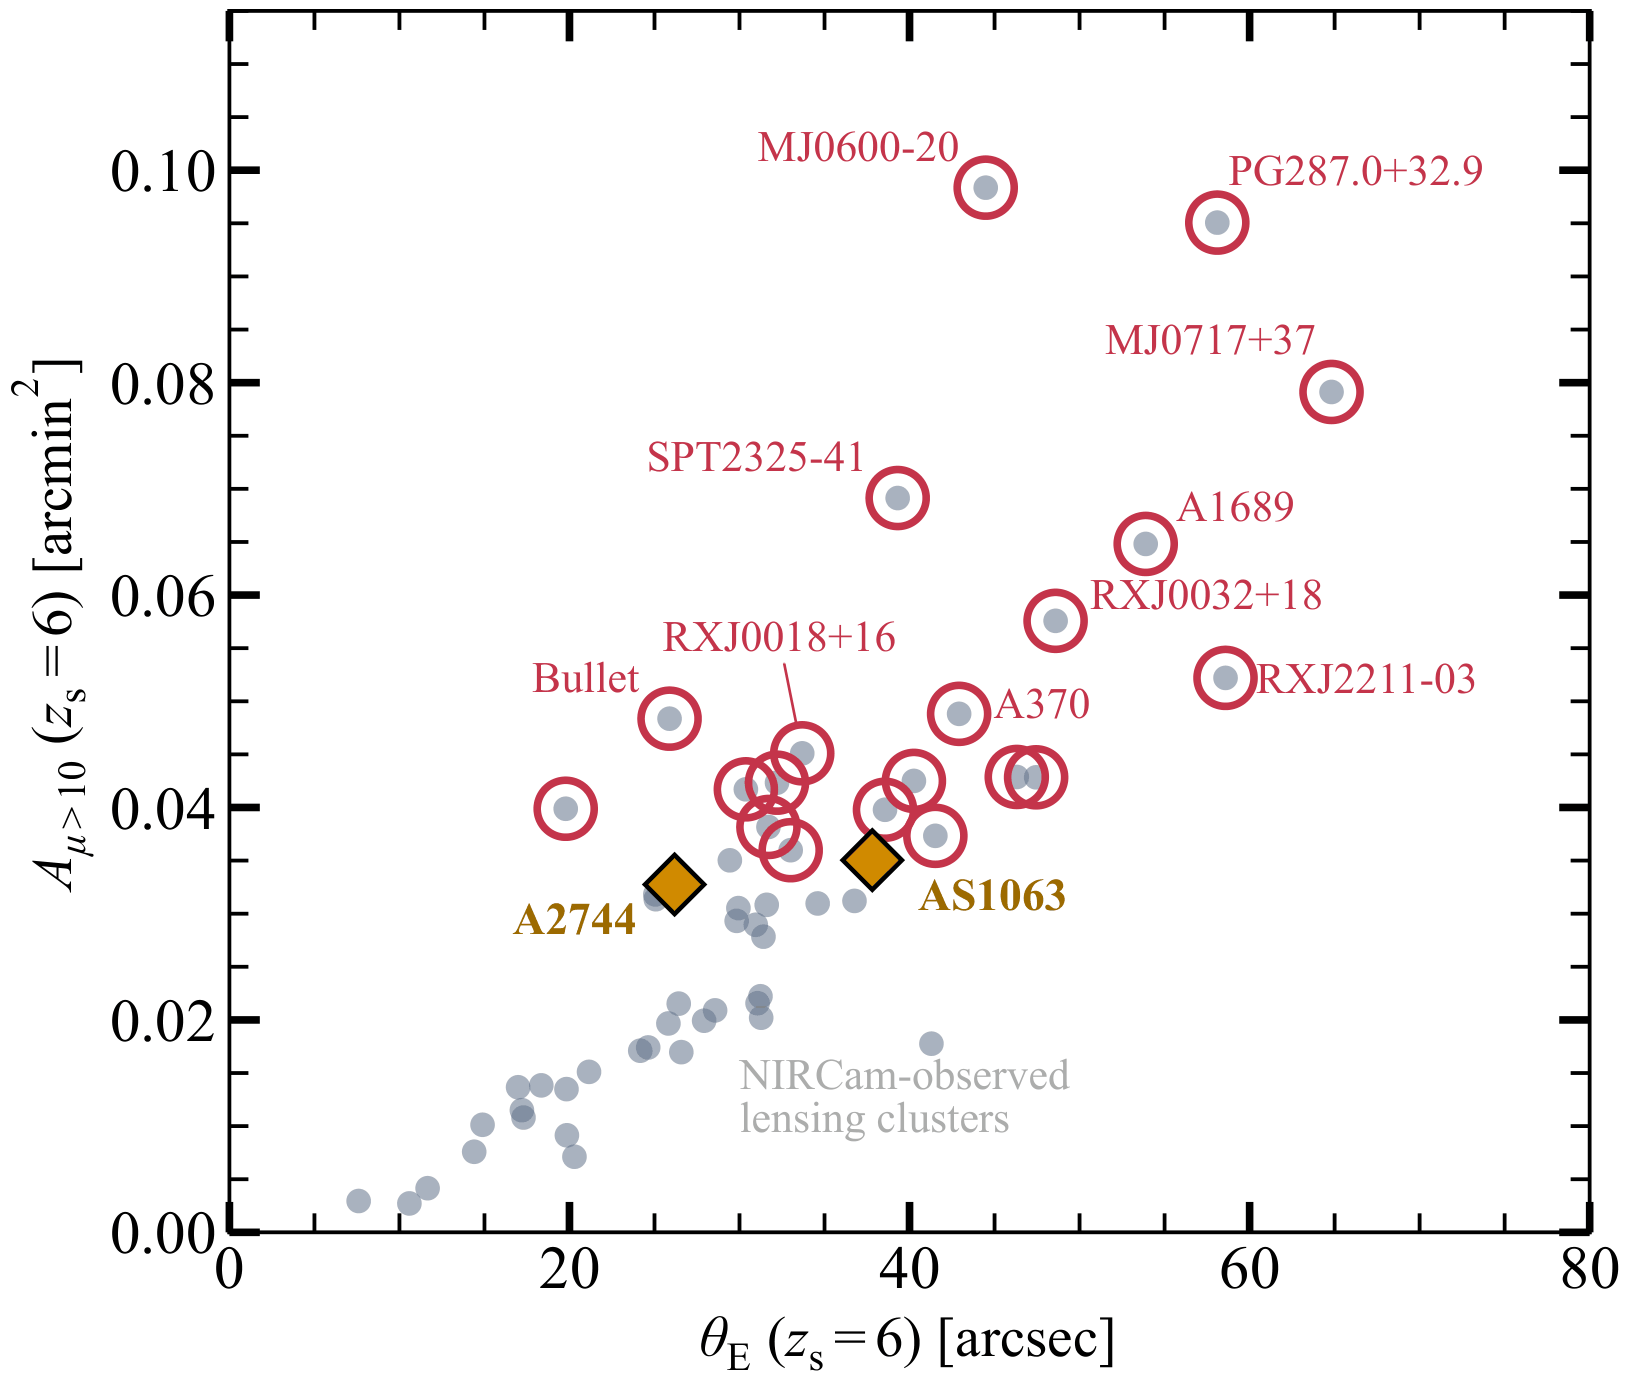
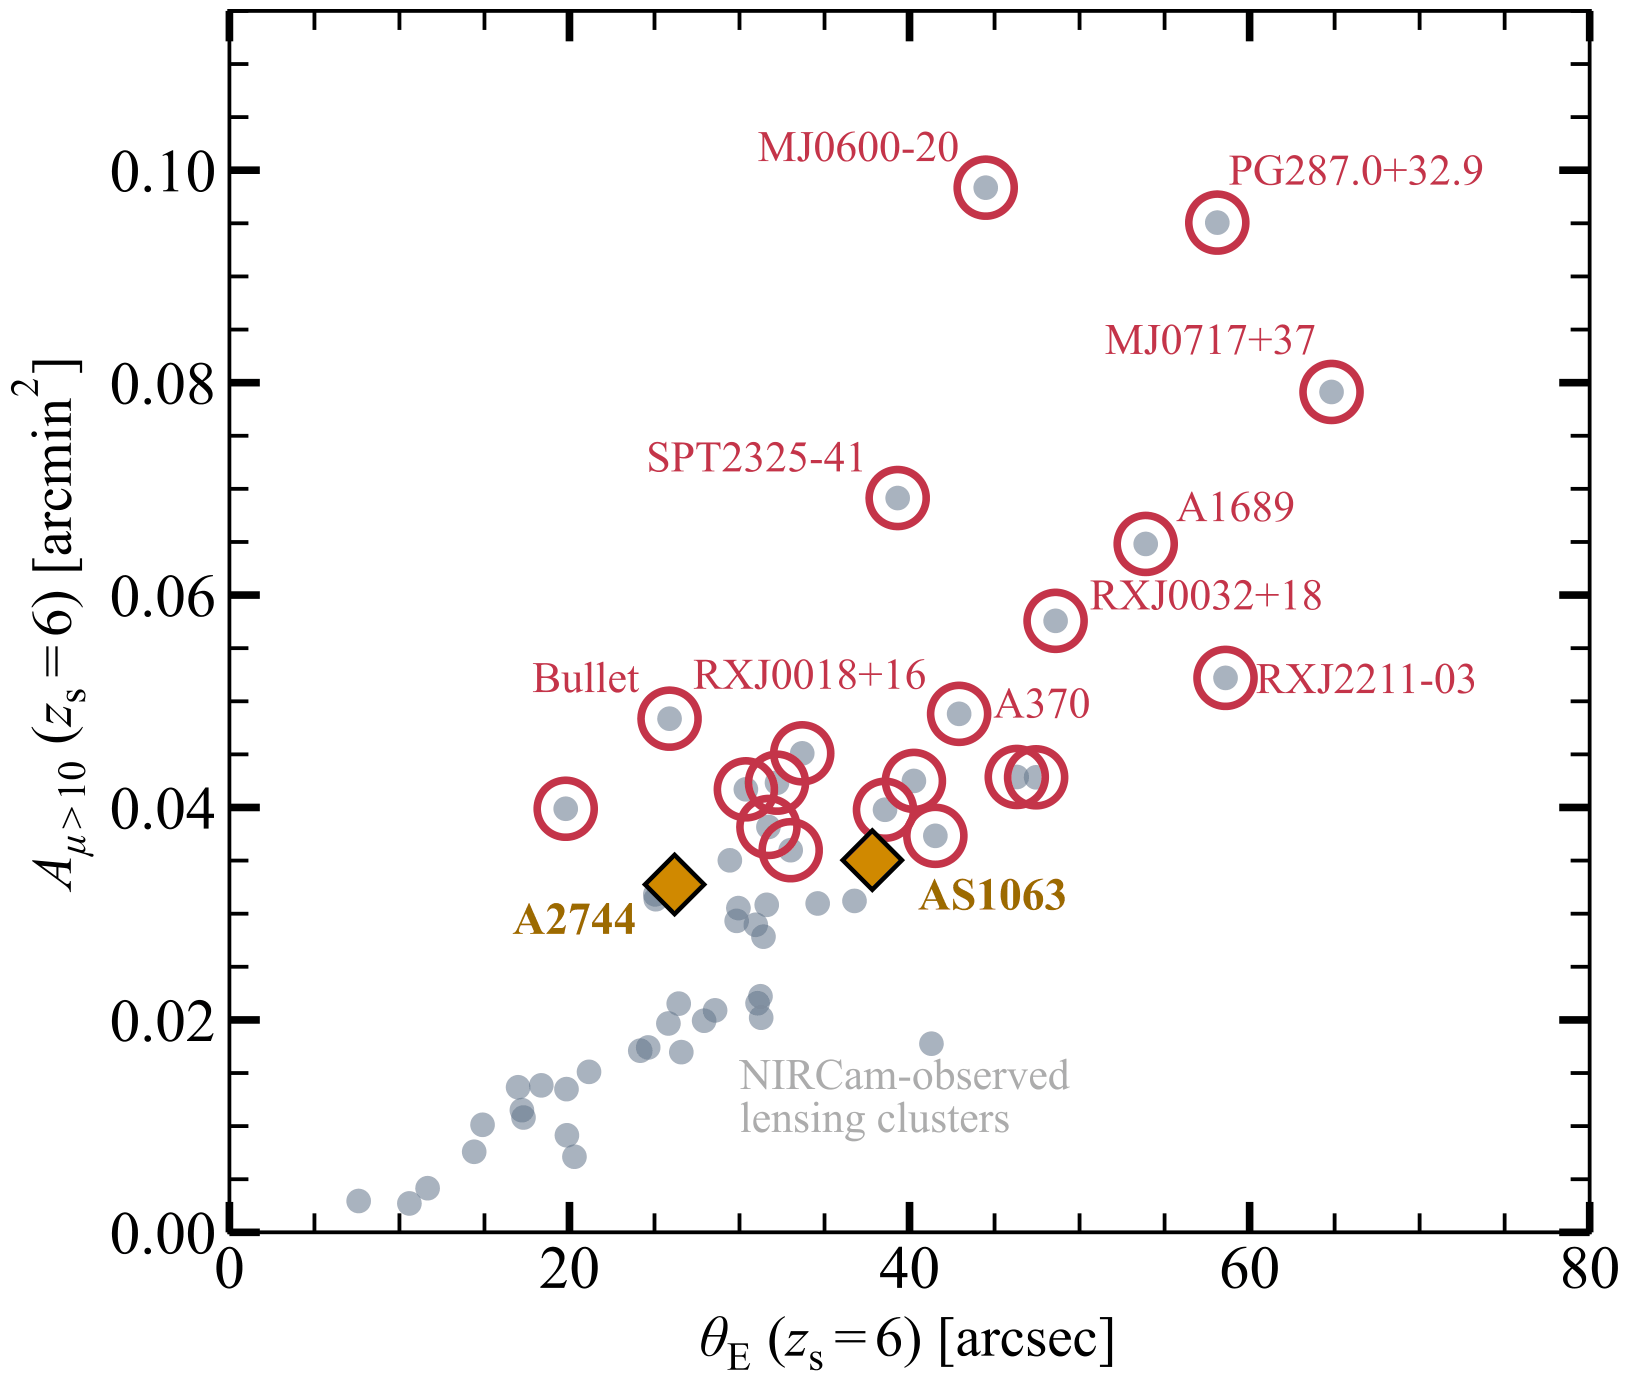
Richer transient imagery, wordmark header, legacy label fixes, and the updated cluster figure with lens-model references

diff --git a/index.html b/index.html
@@ -13,7 +13,7 @@
 
 <header class="site-head">
   <div class="wrap nav-bar">
-    <a class="brand" href="index.html" aria-label="JWST Frontier Fields home">JFF</a>
+    <a class="brand" href="index.html" aria-label="JWST Frontier Fields home">JWST Frontier Fields</a>
     <nav class="site-nav" aria-label="Site">
       <a href="index.html" aria-current="page">Home</a>
       <a href="concept.html">Concept</a>
@@ -92,7 +92,7 @@
         </div>
       </article>
       <article class="card">
-        <div class="card-media" role="img" aria-label="Artist's concept of a supernova shock breakout" style="background-image:url('images/cards/transients.jpg')"></div>
+        <div class="card-media" role="img" aria-label="Illustration of the expanding debris of a supernova" style="background-image:url('images/cards/transients.jpg')"></div>
         <div class="card-body">
           <h3>The transient sky</h3>
           <p>Repeated visits over several years catch supernovae in early galaxies and
@@ -141,7 +141,7 @@
       </article>
       <article class="card mini">
         <div class="card-body">
-          <h3>Cluster science</h3>
+          <h3>Massive galaxy clusters</h3>
           <p>Mass maps, substructure, and the intracluster light of the lensing
           clusters themselves.</p>
           <div class="wp-tags"><a href="papers.html">JFF XII</a></div>
@@ -168,7 +168,7 @@
           <h3>Lens modelling</h3>
           <p>Mass models that improve with every epoch, and a community challenge
           in 2027.</p>
-          <div class="wp-tags"><a href="concept.html#challenge">2027 challenge</a></div>
+          <div class="wp-tags"><a href="papers.html">JFF XII</a><a href="concept.html#challenge">2027 challenge</a></div>
         </div>
       </article>
     </div>
@@ -227,7 +227,7 @@
     <p>Imagery: NASA, ESA, CSA, and STScI (<a href="https://esawebb.org/images/weic2209a/">Webb&rsquo;s
     First Deep Field</a>; <a href="https://esawebb.org/images/weic2307a/">Wolf-Rayet 124</a> with the
     Webb ERO Production Team; <a href="https://creativecommons.org/licenses/by/4.0/">CC BY 4.0</a>),
-    NASA&rsquo;s Goddard Space Flight Center, NASA/JPL-Caltech, and NASA/Ames/STScI. Details in the
+    NASA&rsquo;s Goddard Space Flight Center (Conceptual Image Lab), and NASA/JPL-Caltech. Details in the
     <a href="https://github.com/jwst-frontier-fields/jwst-frontier-fields.github.io/blob/main/images/CREDITS.md">credits file</a>.</p>
   </div>
 </footer>

diff --git a/design.html b/design.html
@@ -13,7 +13,7 @@
 
 <header class="site-head solid">
   <div class="wrap nav-bar">
-    <a class="brand" href="index.html" aria-label="JWST Frontier Fields home">JFF</a>
+    <a class="brand" href="index.html" aria-label="JWST Frontier Fields home">JWST Frontier Fields</a>
     <nav class="site-nav" aria-label="Site">
       <a href="index.html">Home</a>
       <a href="concept.html">Concept</a>
@@ -101,7 +101,8 @@
       than a factor of ten (both for sources at <em>z</em> = 6), for lensing clusters
       already observed with NIRCam. The two clusters hosting the deepest existing surveys
       (diamonds) are ordinary members of this population, and the circled clusters offer
-      more highly magnified area but have not yet hosted a comparably deep survey.</figcaption>
+      more highly magnified area but have not yet hosted a comparably deep survey
+      (lens models from Oguri et al. and Allingham et al.).</figcaption>
     </figure>
 
     <h2>Design options</h2>
@@ -119,7 +120,7 @@
     <p>Imagery: NASA, ESA, CSA, and STScI (<a href="https://esawebb.org/images/weic2209a/">Webb&rsquo;s
     First Deep Field</a>; <a href="https://esawebb.org/images/weic2307a/">Wolf-Rayet 124</a> with the
     Webb ERO Production Team; <a href="https://creativecommons.org/licenses/by/4.0/">CC BY 4.0</a>),
-    NASA&rsquo;s Goddard Space Flight Center, NASA/JPL-Caltech, and NASA/Ames/STScI. Details in the
+    NASA&rsquo;s Goddard Space Flight Center (Conceptual Image Lab), and NASA/JPL-Caltech. Details in the
     <a href="https://github.com/jwst-frontier-fields/jwst-frontier-fields.github.io/blob/main/images/CREDITS.md">credits file</a>.</p>
   </div>
 </footer>

diff --git a/concept.html b/concept.html
@@ -13,7 +13,7 @@
 
 <header class="site-head solid">
   <div class="wrap nav-bar">
-    <a class="brand" href="index.html" aria-label="JWST Frontier Fields home">JFF</a>
+    <a class="brand" href="index.html" aria-label="JWST Frontier Fields home">JWST Frontier Fields</a>
     <nav class="site-nav" aria-label="Site">
       <a href="index.html">Home</a>
       <a href="concept.html" aria-current="page">Concept</a>
@@ -60,7 +60,7 @@
     <p>Imagery: NASA, ESA, CSA, and STScI (<a href="https://esawebb.org/images/weic2209a/">Webb&rsquo;s
     First Deep Field</a>; <a href="https://esawebb.org/images/weic2307a/">Wolf-Rayet 124</a> with the
     Webb ERO Production Team; <a href="https://creativecommons.org/licenses/by/4.0/">CC BY 4.0</a>),
-    NASA&rsquo;s Goddard Space Flight Center, NASA/JPL-Caltech, and NASA/Ames/STScI. Details in the
+    NASA&rsquo;s Goddard Space Flight Center (Conceptual Image Lab), and NASA/JPL-Caltech. Details in the
     <a href="https://github.com/jwst-frontier-fields/jwst-frontier-fields.github.io/blob/main/images/CREDITS.md">credits file</a>.</p>
   </div>
 </footer>

diff --git a/papers.html b/papers.html
@@ -13,7 +13,7 @@
 
 <header class="site-head solid">
   <div class="wrap nav-bar">
-    <a class="brand" href="index.html" aria-label="JWST Frontier Fields home">JFF</a>
+    <a class="brand" href="index.html" aria-label="JWST Frontier Fields home">JWST Frontier Fields</a>
     <nav class="site-nav" aria-label="Site">
       <a href="index.html">Home</a>
       <a href="concept.html">Concept</a>
@@ -69,7 +69,7 @@
     <p>Imagery: NASA, ESA, CSA, and STScI (<a href="https://esawebb.org/images/weic2209a/">Webb&rsquo;s
     First Deep Field</a>; <a href="https://esawebb.org/images/weic2307a/">Wolf-Rayet 124</a> with the
     Webb ERO Production Team; <a href="https://creativecommons.org/licenses/by/4.0/">CC BY 4.0</a>),
-    NASA&rsquo;s Goddard Space Flight Center, NASA/JPL-Caltech, and NASA/Ames/STScI. Details in the
+    NASA&rsquo;s Goddard Space Flight Center (Conceptual Image Lab), and NASA/JPL-Caltech. Details in the
     <a href="https://github.com/jwst-frontier-fields/jwst-frontier-fields.github.io/blob/main/images/CREDITS.md">credits file</a>.</p>
   </div>
 </footer>

diff --git a/assets/css/style.css b/assets/css/style.css
@@ -37,7 +37,10 @@ a:hover { text-decoration: underline; }
   display: flex; align-items: center; justify-content: space-between;
   gap: 1rem; padding-top: 1.05rem; padding-bottom: 1.05rem;
 }
-.brand { font-weight: 700; letter-spacing: .16em; color: #fff; font-size: .95rem; }
+.brand {
+  font-weight: 700; letter-spacing: .12em; text-transform: uppercase;
+  color: #fff; font-size: .84rem; white-space: nowrap;
+}
 .brand:hover { text-decoration: none; }
 nav.site-nav { display: flex; gap: 1.5rem; flex-wrap: wrap; justify-content: flex-end; }
 nav.site-nav a { color: rgba(255,255,255,.82); font-size: .88rem; letter-spacing: .02em; }
@@ -201,6 +204,7 @@ figcaption { color: var(--muted); font-size: .84rem; line-height: 1.55; margin-t
   .hero { min-height: min(68vh, 560px); }
 }
 @media (max-width: 620px) {
+  .brand { font-size: .72rem; letter-spacing: .09em; }
   nav.site-nav { gap: .95rem; }
   nav.site-nav a { font-size: .8rem; }
   .papers li { grid-template-columns: 4.2rem 1fr; gap: .7rem; }

diff --git a/images/CREDITS.md b/images/CREDITS.md
@@ -48,11 +48,11 @@ https://www.nasa.gov/nasa-brand-center/images-and-media/).
 
 ## cards/transients.jpg
 
-- Source page: https://science.nasa.gov/photojournal/caught-a-supernova-shock-breakout-artist-concept
-  (PIA20065, "Caught: A Supernova Shock Breakout (Artist Concept)")
-- Source file: https://assets.science.nasa.gov/content/dam/science/psd/photojournal/pia/pia20/pia20065/PIA20065.jpg
-  (1920 x 1080 px)
-- Credit: NASA/Ames/STScI
+- Source page: https://svs.gsfc.nasa.gov/20413/ ("Supernova explosion animation", a still
+  of the expanding supernova debris)
+- Source file: https://svs.gsfc.nasa.gov/vis/a020000/a020400/a020413/SN_8K_NoPulse_V001_Still_00000.png
+  (7680 x 4320 px)
+- Credit: NASA's Goddard Space Flight Center Conceptual Image Lab
 - Processing: cropped to a 5:2 band and resized to 1400 x 560 px. No other change.
 
 ## design/footprint.png, design/clusters.png
